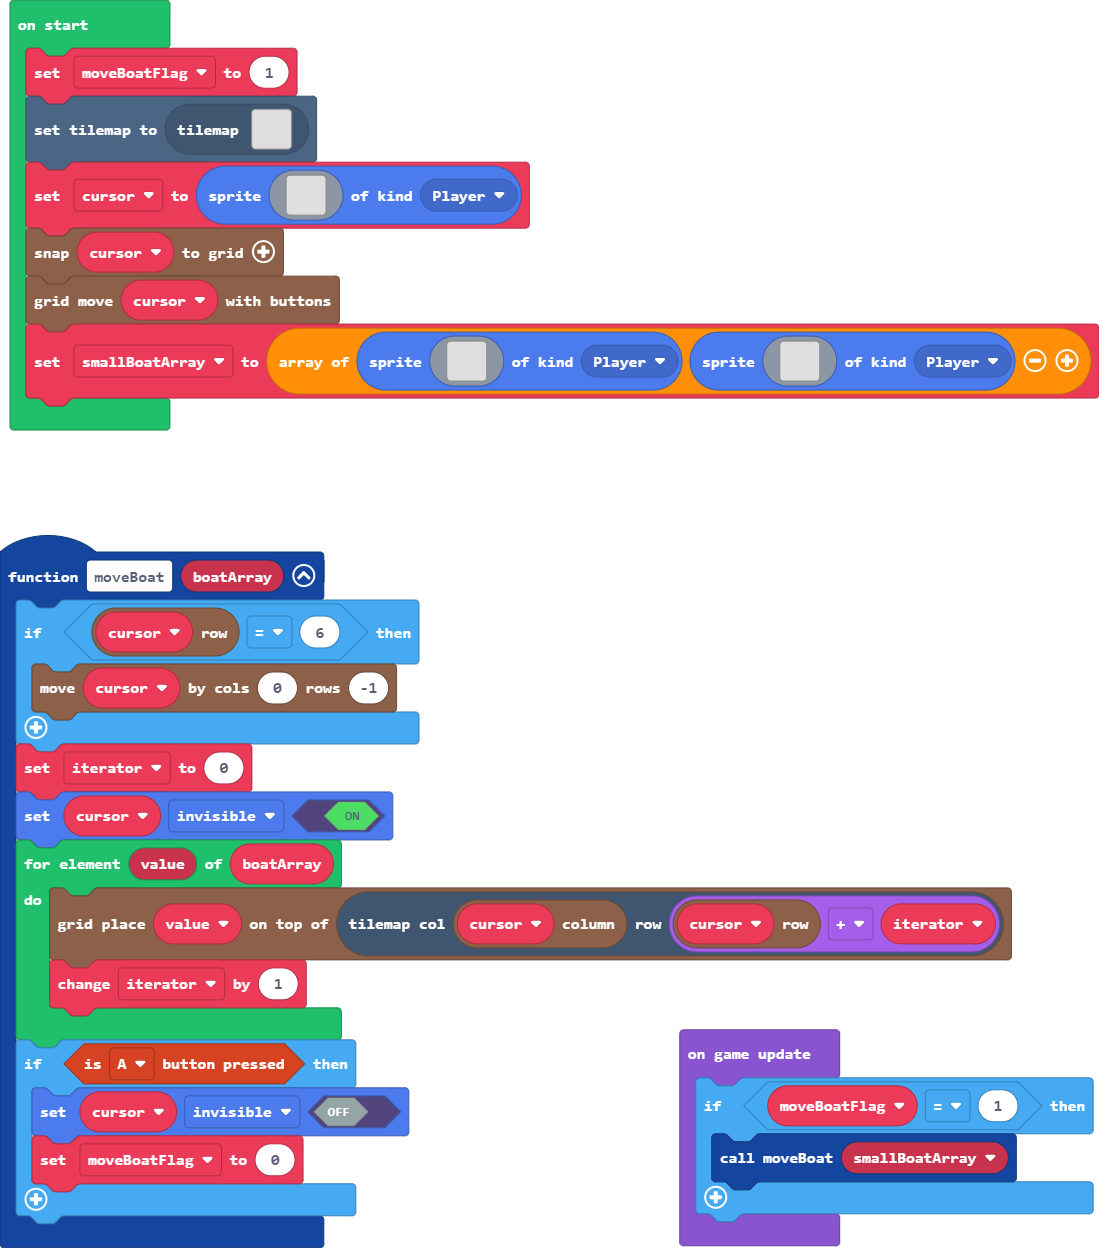
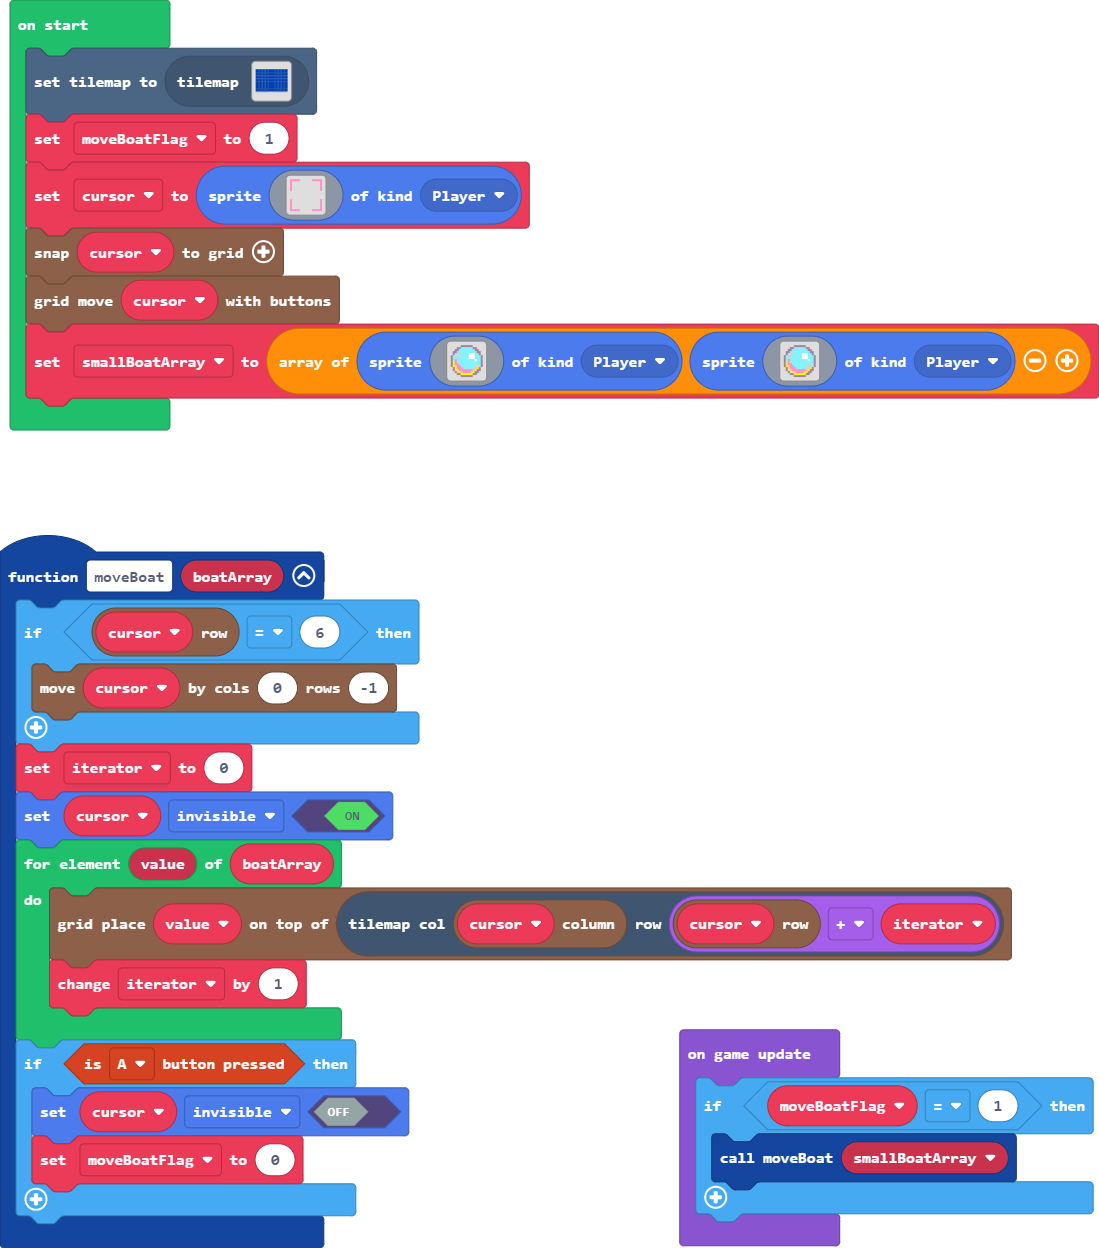
fixed

Changed region(s): [[0.0, 0.0312, 0.3094, 0.1562], [0.7116, 0.2812, 0.7425, 0.3125], [0.4022, 0.2812, 0.4331, 0.3125]]

diff --git a/tilemap.g.ts b/tilemap.g.ts
@@ -2,11 +2,42 @@
 namespace myTiles {
     //% fixedInstance jres blockIdentity=images._tile
     export const transparency16 = image.ofBuffer(hex``);
+    //% fixedInstance jres blockIdentity=images._tile
+    export const tile1 = image.ofBuffer(hex``);
 
     helpers._registerFactory("tilemap", function(name: string) {
         switch(helpers.stringTrim(name)) {
             case "level1":
             case "level1":return tiles.createTilemap(hex`1000100000000000000000000000000000000000000000000000000000000000000000000000000000000000000000000000000000000000000000000000000000000000000000000000000000000000000000000000000000000000000000000000000000000000000000000000000000000000000000000000000000000000000000000000000000000000000000000000000000000000000000000000000000000000000000000000000000000000000000000000000000000000000000000000000000000000000000000000000000000000000000000000000000000000000000000000000000000000000000000000000000000000000000000000000000000000`, img`
+. . . . . . . . . . . . . . . . 
+. . . . . . . . . . . . . . . . 
+. . . . . . . . . . . . . . . . 
+. . . . . . . . . . . . . . . . 
+. . . . . . . . . . . . . . . . 
+. . . . . . . . . . . . . . . . 
+. . . . . . . . . . . . . . . . 
+. . . . . . . . . . . . . . . . 
+. . . . . . . . . . . . . . . . 
+. . . . . . . . . . . . . . . . 
+. . . . . . . . . . . . . . . . 
+. . . . . . . . . . . . . . . . 
+. . . . . . . . . . . . . . . . 
+. . . . . . . . . . . . . . . . 
+. . . . . . . . . . . . . . . . 
+. . . . . . . . . . . . . . . . 
+`, [myTiles.transparency16], TileScale.Sixteen);
+            case "level2":
[1 lines of base64/hex data omitted]
+. . . . . . . . . . 
+. . . . . . . . . . 
+. . . . . . . . . . 
+. . . . . . . . . . 
+. . . . . . . . . . 
+. . . . . . . . . . 
+. . . . . . . . . . 
+`, [myTiles.transparency16,myTiles.tile1], TileScale.Sixteen);
+            case "level3":
+            case "level3":return tiles.createTilemap(hex`1000100000000000000000000000000000000000000000000000000000000000000000000000000000000000000000000000000000000000000000000000000000000000000000000000000000000000000000000000000000000000000000000000000000000000000000000000000000000000000000000000000000000000000000000000000000000000000000000000000000000000000000000000000000000000000000000000000000000000000000000000000000000000000000000000000000000000000000000000000000000000000000000000000000000000000000000000000000000000000000000000000000000000000000000000000000000000`, img`
 . . . . . . . . . . . . . . . . 
 . . . . . . . . . . . . . . . . 
 . . . . . . . . . . . . . . . . 
@@ -31,6 +62,8 @@ namespace myTiles {
     helpers._registerFactory("tile", function(name: string) {
         switch(helpers.stringTrim(name)) {
             case "transparency16":return transparency16;
+            case "myTile":
+            case "tile1":return tile1;
         }
         return null;
     })

diff --git a/main.ts b/main.ts
@@ -16,12 +16,63 @@ function moveBoat (boatArray: Sprite[]) {
 let iterator = 0
 let cursor: Sprite = null
 let moveBoatFlag = 0
+tiles.setCurrentTilemap(tilemap`level2`)
 moveBoatFlag = 1
-tiles.setCurrentTilemap(0)
-cursor = sprites.create(, SpriteKind.Player)
+cursor = sprites.create(img`
+    3 3 3 3 3 . . . . . . 3 3 3 3 3 
+    3 . . . . . . . . . . . . . . 3 
+    3 . . . . . . . . . . . . . . 3 
+    3 . . . . . . . . . . . . . . 3 
+    3 . . . . . . . . . . . . . . 3 
+    3 . . . . . . . . . . . . . . 3 
+    . . . . . . . . . . . . . . . . 
+    . . . . . . . . . . . . . . . . 
+    . . . . . . . . . . . . . . . . 
+    . . . . . . . . . . . . . . . . 
+    3 . . . . . . . . . . . . . . 3 
+    3 . . . . . . . . . . . . . . 3 
+    3 . . . . . . . . . . . . . . 3 
+    3 . . . . . . . . . . . . . . 3 
+    3 . . . . . . . . . . . . . . 3 
+    3 3 3 3 3 . . . . . . 3 3 3 3 3 
+    `, SpriteKind.Player)
 grid.snap(cursor)
 grid.moveWithButtons(cursor)
-let smallBoatArray = [sprites.create(, SpriteKind.Player), sprites.create(, SpriteKind.Player)]
+let smallBoatArray = [sprites.create(img`
+    . . . . . b b b b b b . . . . . 
+    . . . b b 9 9 9 9 9 9 b b . . . 
+    . . b b 9 9 9 9 9 9 9 9 b b . . 
+    . b b 9 d 9 9 9 9 9 9 9 9 b b . 
+    . b 9 d 9 9 9 9 9 1 1 1 9 9 b . 
+    b 9 d d 9 9 9 9 9 1 1 1 9 9 9 b 
+    b 9 d 9 9 9 9 9 9 1 1 1 9 9 9 b 
+    b 9 3 9 9 9 9 9 9 9 9 9 1 9 9 b 
+    b 5 3 d 9 9 9 9 9 9 9 9 9 9 9 b 
+    b 5 3 3 9 9 9 9 9 9 9 9 9 d 9 b 
+    b 5 d 3 3 9 9 9 9 9 9 9 d d 9 b 
+    . b 5 3 3 3 d 9 9 9 9 d d 5 b . 
+    . b d 5 3 3 3 3 3 3 3 d 5 b b . 
+    . . b d 5 d 3 3 3 3 5 5 b b . . 
+    . . . b b 5 5 5 5 5 5 b b . . . 
+    . . . . . b b b b b b . . . . . 
+    `, SpriteKind.Player), sprites.create(img`
+    . . . . . b b b b b b . . . . . 
+    . . . b b 9 9 9 9 9 9 b b . . . 
+    . . b b 9 9 9 9 9 9 9 9 b b . . 
+    . b b 9 d 9 9 9 9 9 9 9 9 b b . 
+    . b 9 d 9 9 9 9 9 1 1 1 9 9 b . 
+    b 9 d d 9 9 9 9 9 1 1 1 9 9 9 b 
+    b 9 d 9 9 9 9 9 9 1 1 1 9 9 9 b 
+    b 9 3 9 9 9 9 9 9 9 9 9 1 9 9 b 
+    b 5 3 d 9 9 9 9 9 9 9 9 9 9 9 b 
+    b 5 3 3 9 9 9 9 9 9 9 9 9 d 9 b 
+    b 5 d 3 3 9 9 9 9 9 9 9 d d 9 b 
+    . b 5 3 3 3 d 9 9 9 9 d d 5 b . 
+    . b d 5 3 3 3 3 3 3 3 d 5 b b . 
+    . . b d 5 d 3 3 3 3 5 5 b b . . 
+    . . . b b 5 5 5 5 5 5 b b . . . 
+    . . . . . b b b b b b . . . . . 
+    `, SpriteKind.Player)]
 game.onUpdate(function () {
     if (moveBoatFlag == 1) {
         moveBoat(smallBoatArray)
